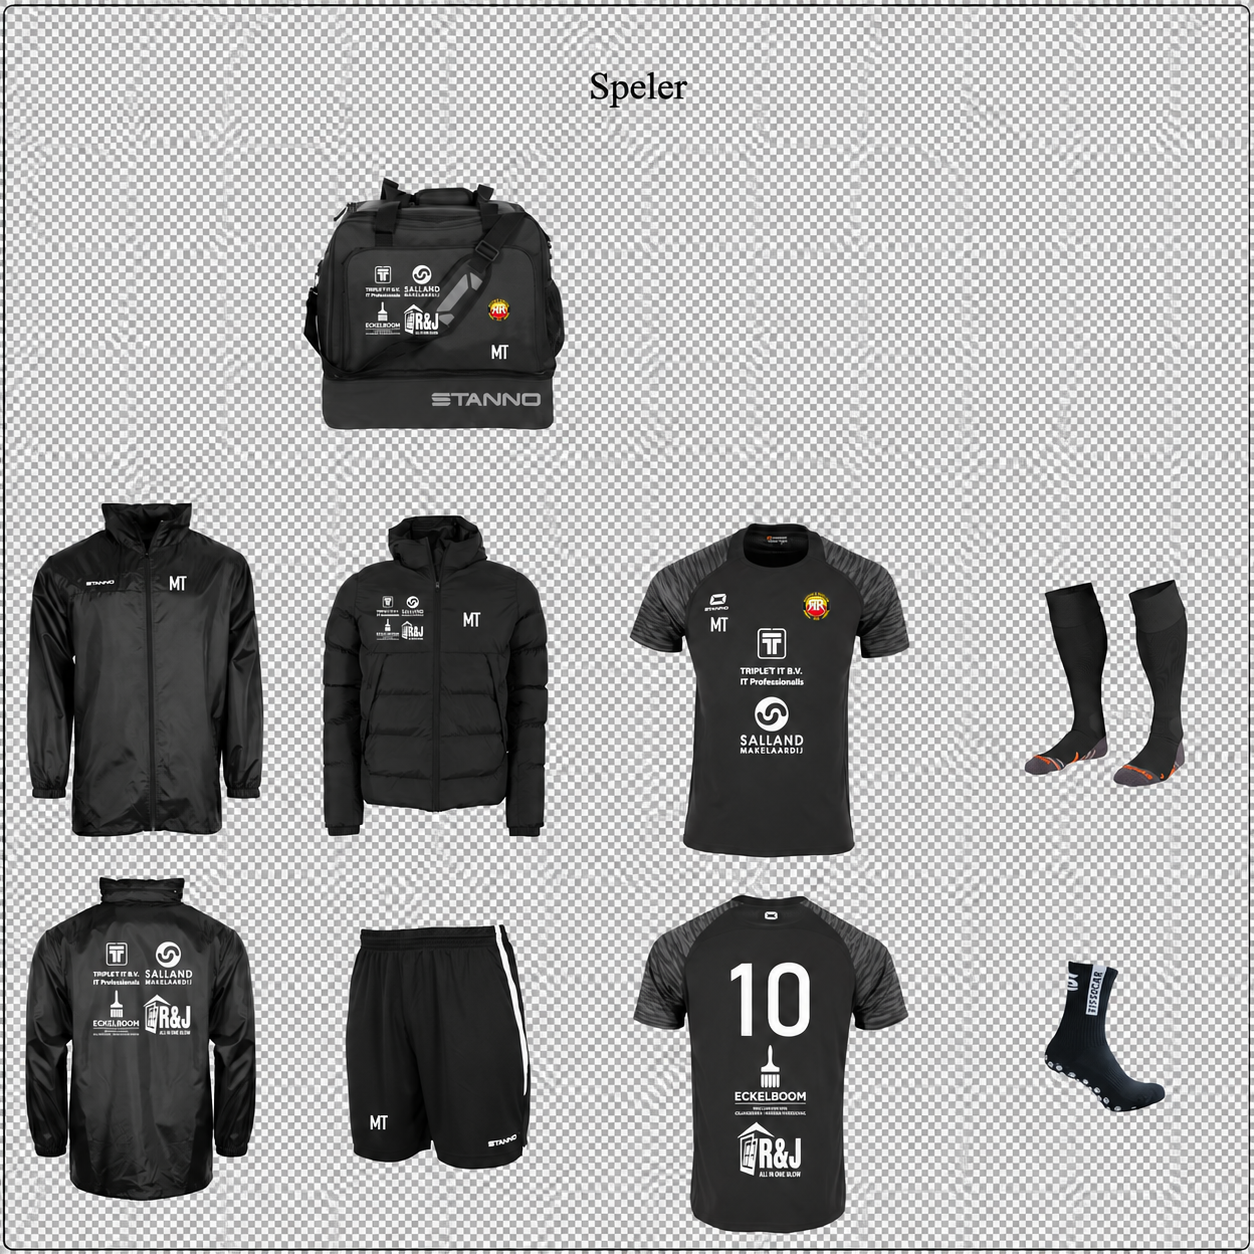
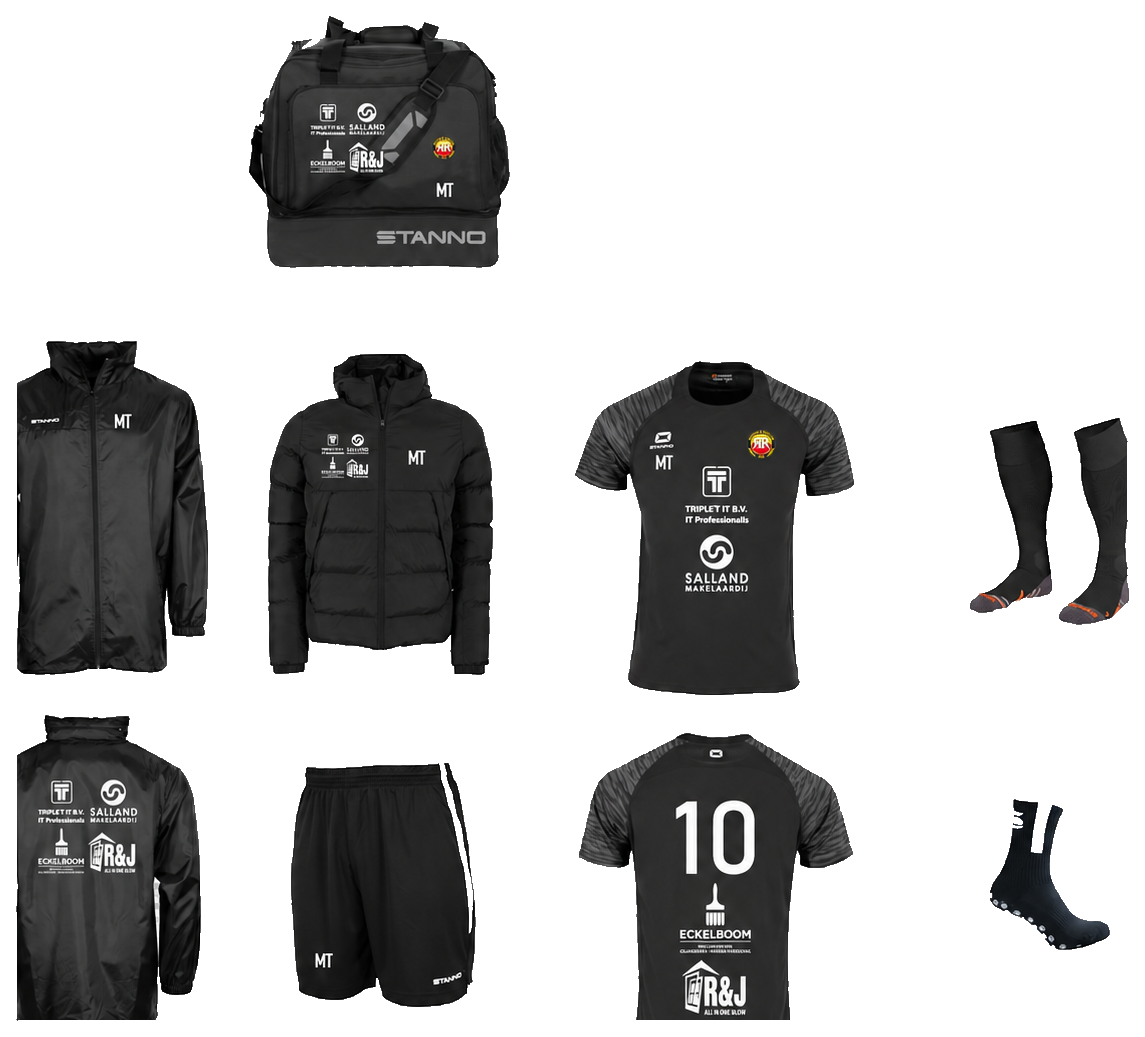
Maak kitfoto’s echt transparant en laat backup als bestand downloaden.

diff --git a/index.php b/index.php
@@ -819,7 +819,7 @@ tr.archived td{opacity:.55}
   display:grid;grid-template-columns:1fr 1fr;gap:12px;margin:0 0 16px;
 }
 .kit-design figure{
-  margin:0;background:var(--surface);border:1px solid var(--line);border-radius:var(--r-lg);
+  margin:0;background:var(--raise);border:1px solid var(--line);border-radius:var(--r-lg);
   padding:12px 12px 10px;min-width:0;
 }
 .kit-design img{
@@ -1025,11 +1025,11 @@ details.shop-more[open] > summary{margin-bottom:10px;color:var(--accent-text)}
 
   <section class="kit-design" id="design">
     <figure>
-      <img src="speler-kit.png" width="1254" height="1254" alt="Spelerstenue 14-2: shirt, broekje, jassen, tas en sokken">
+            <img src="speler-kit.png" width="1145" height="1037" alt="Spelerstenue 14-2: shirt, broekje, jassen, tas en sokken">
       <figcaption>Speler</figcaption>
     </figure>
     <figure>
-      <img src="kader-kit.png" width="901" height="1746" alt="Kadertenue 14-2: polo, shirt, jas en broekje">
+            <img src="kader-kit.png" width="837" height="1469" alt="Kadertenue 14-2: polo, shirt, jas en broekje">
       <figcaption>Kader</figcaption>
     </figure>
   </section>
@@ -2261,50 +2261,11 @@ document.getElementById('seasonSave')?.addEventListener('click', async ()=>{
   const season=document.getElementById('seasonInput')?.value||'';
   await cmsOk(await api({action:'save_kit', csrf:TEAM.csrf, season}), 'Seizoen opgeslagen');
 });
-document.getElementById('backupBtn')?.addEventListener('click', async ()=>{
+document.getElementById('backupBtn')?.addEventListener('click', ()=>{
   const btn=document.getElementById('backupBtn');
-  if(!btn) return;
-  btn.disabled=true;
-  try{
-    const res=await fetch('save.php', {
-      method:'POST',
-      headers:{'Content-Type':'application/json'},
-      body:JSON.stringify({action:'backup', csrf:TEAM.csrf}),
-      credentials:'same-origin'
-    });
-    const type=res.headers.get('content-type')||'';
-    if(type.includes('application/json')){
-      let data={};
-      try{ data=await res.json(); }catch(e){ data={error:'Backup mislukt'}; }
-      toast(data.error||'Backup mislukt');
-      return;
-    }
-    const blob=await res.blob();
-    if(!blob || blob.size<32){ toast('Backup mislukt'); return; }
-    const dispo=res.headers.get('content-disposition')||'';
-    const m=dispo.match(/filename="([^"]+)"/);
-    const name=m?m[1]:'kitroom-backup.zip';
-    const url=URL.createObjectURL(blob);
-    const a=document.createElement('a');
-    a.href=url;
-    a.download=name;
-    document.body.appendChild(a);
-    a.click();
-    a.remove();
-    URL.revokeObjectURL(url);
-    toast('Backup gedownload');
-    const list=document.getElementById('backupList');
-    if(list){
-      const now=new Date();
-      const pad=n=>String(n).padStart(2,'0');
-      const stamp=pad(now.getDate())+'-'+pad(now.getMonth()+1)+'-'+now.getFullYear()+' '+pad(now.getHours())+':'+pad(now.getMinutes());
-      list.innerHTML=stamp+' · '+name+' ('+Math.max(1, Math.round(blob.size/1024))+' kB)<br>'+list.innerHTML;
-    }
-  }catch(e){
-    toast('Backup mislukt');
-  } finally {
-    btn.disabled=false;
-  }
+  if(btn) btn.disabled=true;
+  location.href='save.php?action=backup&csrf='+encodeURIComponent(TEAM.csrf);
+  setTimeout(()=>{ if(btn) btn.disabled=false; }, 2000);
 });
 document.getElementById('npAdd')?.addEventListener('click', async ()=>{
   await cmsOk(await api({

diff --git a/save.php b/save.php
@@ -1,9 +1,6 @@
 <?php
 declare(strict_types=1);
 
-header('Content-Type: application/json; charset=utf-8');
-header('Cache-Control: no-store');
-
 require __DIR__ . '/boot.php';
 
 $raw = file_get_contents('php://input');
@@ -14,8 +11,40 @@ if (!is_array($body)) {
 $action = (string) ($body['action'] ?? $_GET['action'] ?? '');
 
 function jsonOut(array $data, int $code = 200): void {
+    header('Content-Type: application/json; charset=utf-8');
+    header('Cache-Control: no-store');
     http_response_code($code);
     echo json_encode($data, JSON_UNESCAPED_UNICODE);
+    exit;
+}
+
+function requireEditor(array $body): void {
+    if (!canEdit()) {
+        jsonOut(['ok' => false, 'error' => 'Niet ingelogd.'], 401);
+    }
+    $token = (string) ($body['csrf'] ?? $_GET['csrf'] ?? '');
+    if ($token === '' || !hash_equals(csrfToken(), $token)) {
+        jsonOut(['ok' => false, 'error' => 'Sessie verlopen. Vernieuw de pagina.'], 403);
+    }
+}
+
+if ($action === 'backup') {
+    $csrfBody = is_array($body) ? $body : [];
+    if (empty($csrfBody['csrf']) && isset($_GET['csrf'])) {
+        $csrfBody['csrf'] = (string) $_GET['csrf'];
+    }
+    requireEditor($csrfBody);
+    try {
+        $made = makeKitroomBackup($mysqli);
+    } catch (Throwable $e) {
+        jsonOut(['ok' => false, 'error' => $e->getMessage() !== '' ? $e->getMessage() : 'Kon backup niet maken.'], 500);
+    }
+    header('Content-Type: application/zip');
+    header('Content-Disposition: attachment; filename="' . $made['filename'] . '"');
+    header('X-Content-Type-Options: nosniff');
+    header('Cache-Control: no-store');
+    header('Content-Length: ' . (string) filesize($made['path']));
+    readfile($made['path']);
     exit;
 }
 
@@ -604,16 +633,6 @@ if ($action === 'save_kit') {
     jsonOut(['ok' => true, 'settings' => loadKitSettings()]);
 }
 
-function requireEditor(array $body): void {
-    if (!canEdit()) {
-        jsonOut(['ok' => false, 'error' => 'Niet ingelogd.'], 401);
-    }
-    $token = (string) ($body['csrf'] ?? '');
-    if ($token === '' || !hash_equals(csrfToken(), $token)) {
-        jsonOut(['ok' => false, 'error' => 'Sessie verlopen. Vernieuw de pagina.'], 403);
-    }
-}
-
 if ($action === 'save_player') {
     requireEditor($body);
     $id = (int) ($body['id'] ?? 0);
@@ -739,22 +758,6 @@ if ($action === 'restore_type') {
     $upd->bind_param('i', $id);
     $upd->execute();
     jsonOut(['ok' => true]);
-}
-
-if ($action === 'backup') {
-    requireEditor($body);
-    try {
-        $made = makeKitroomBackup($mysqli);
-    } catch (Throwable $e) {
-        jsonOut(['ok' => false, 'error' => $e->getMessage() !== '' ? $e->getMessage() : 'Kon backup niet maken.'], 500);
-    }
-    header_remove('Content-Type');
-    header('Content-Type: application/zip');
-    header('Content-Disposition: attachment; filename="' . $made['filename'] . '"');
-    header('X-Content-Type-Options: nosniff');
-    header('Content-Length: ' . (string) filesize($made['path']));
-    readfile($made['path']);
-    exit;
 }
 
 jsonOut(['ok' => false, 'error' => 'Onbekende actie.'], 400);

diff --git a/ouder.php b/ouder.php
@@ -165,7 +165,7 @@ body{
   display:grid;grid-template-columns:1fr 1fr;gap:10px;margin:0 0 16px;
 }
 .kit-design figure{
-  margin:0;background:var(--surface);border:1px solid var(--line);border-radius:var(--r);
+  margin:0;background:var(--raise);border:1px solid var(--line);border-radius:var(--r);
   padding:10px 10px 8px;min-width:0;
 }
 .kit-design img{
@@ -218,11 +218,11 @@ body{
     </p>
     <section class="kit-design">
       <figure>
-        <img src="speler-kit.png" width="1254" height="1254" alt="Spelerstenue 14-2: shirt, broekje, jassen, tas en sokken">
+        <img src="speler-kit.png" width="1145" height="1037" alt="Spelerstenue 14-2: shirt, broekje, jassen, tas en sokken">
         <figcaption>Speler</figcaption>
       </figure>
       <figure>
-        <img src="kader-kit.png" width="901" height="1746" alt="Kadertenue 14-2: polo, shirt, jas en broekje">
+        <img src="kader-kit.png" width="837" height="1469" alt="Kadertenue 14-2: polo, shirt, jas en broekje">
         <figcaption>Kader</figcaption>
       </figure>
     </section>

diff --git a/boot.php b/boot.php
@@ -2465,7 +2465,7 @@ function makeKitroomBackup(mysqli $db): array {
         throw new RuntimeException('Kon backupmap niet maken.');
     }
     $stamp = new DateTimeImmutable('now', new DateTimeZone('Europe/Amsterdam'));
-    $filename = 'kitroom-14-2-' . $stamp->format('Y-m-d-H.i') . '.zip';
+    $filename = 'kitroom-14-2-' . $stamp->format('Y-m-d-H-i') . '.zip';
     $path = $dir . '/' . $filename;
     $zip = new ZipArchive();
     if ($zip->open($path, ZipArchive::CREATE | ZipArchive::OVERWRITE) !== true) {
